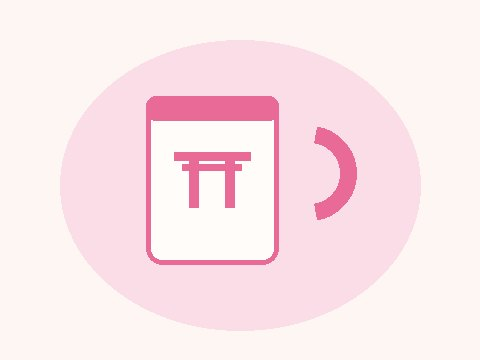
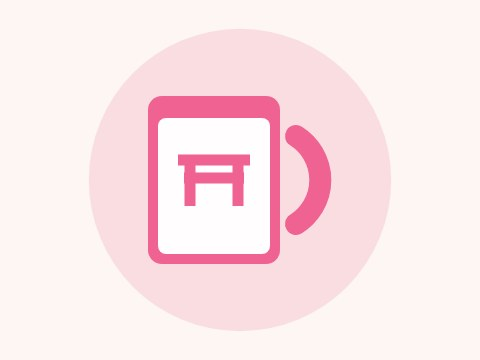
Give the tab strip a floor, and redraw the shop art with a round backdrop
**The cart's pictures.** The squash is painted into the files: the pale
backdrop behind each product is an ellipse, not a circle. A circle sized
as a fraction of a 4:3 canvas in both axes comes out flattened, and once
it is baked into a JPEG no amount of layout can undo it — the cart was
showing it faithfully. Both boxes that display these are already 4:3 and
so is the artwork, so nothing was being cropped or stretched on the way
in.

They are now drawn by scripts/generate-shop-art.mjs rather than by hand,
which is what makes the fix a fix: the backdrop is a circle because its
radius is one number, and all six can be redrawn at once. The hood on the
hoodie now sits on the shoulders instead of hovering above them, and the
figurine reads as a figurine rather than a plinth with a head on it.

The cart's thumbnail states its 4:3 as a ratio instead of a height, so it
cannot drift out of step with the artwork and start cropping. A test
holds every picture to 4:3 — the README invites real photographs to be
dropped in under the same names, and a 16:9 photograph would quietly lose
its top and bottom in the cart with nobody told.

**The tab strip, again.** The fix from before is in the file and I believe
it holds; what it cannot do is reach a build that has not been made yet,
and the earlier screenshot that looked right was the short-content tab,
which would have looked right either way. So rather than argue about it,
[…]

diff --git a/src/shop/__tests__/shopImages.test.ts b/src/shop/__tests__/shopImages.test.ts
@@ -1,0 +1,64 @@
+import { readFileSync, readdirSync } from 'fs';
+import { join } from 'path';
+import { SHOP_ITEMS, needsDelivery } from '../catalogue';
+
+/**
+ * Every product picture has to be 4:3, because every box that shows one is
+ * 4:3 and they are drawn with `cover` — which crops, silently, whatever
+ * does not match. A photograph dropped in at 16:9 would lose its top and
+ * bottom in the cart and nobody would be told.
+ *
+ * The README invites exactly that: "when real photographs exist, just put
+ * them here under the same name". This is the check that makes doing so
+ * safe.
+ */
+const SHOP_DIR = join(__dirname, '../../../assets/shop');
+
+/** Width and height out of a JPEG's frame header. */
+function jpegSize(bytes: Buffer): { width: number; height: number } | null {
+  let i = 2;
+  const FRAME = new Set([0xc0, 0xc1, 0xc2, 0xc3, 0xc5, 0xc6, 0xc7, 0xc9, 0xca, 0xcb, 0xcd, 0xce, 0xcf]);
+  while (i < bytes.length - 9) {
+    if (bytes[i] !== 0xff) {
+      i += 1;
+      continue;
+    }
+    const marker = bytes[i + 1];
+    if (FRAME.has(marker)) {
+      return { height: bytes.readUInt16BE(i + 5), width: bytes.readUInt16BE(i + 7) };
+    }
+    if (marker === 0xd8 || marker === 0xd9 || (marker >= 0xd0 && marker <= 0xd7)) {
+      i += 2;
+      continue;
+    }
+    i += 2 + bytes.readUInt16BE(i + 2);
+  }
+  return null;
+}
+
+describe('shop artwork', () => {
+  const files = readdirSync(SHOP_DIR).filter((name) => name.startsWith('merch-') && name.endsWith('.jpg'));
+
+  it('has a picture for every physical item', () => {
+    const wanted = SHOP_ITEMS.filter(needsDelivery).map((item) => `${item.id}.jpg`);
+    expect(wanted.length).toBeGreaterThan(0);
+    for (const name of wanted) expect(files).toContain(name);
+  });
+
+  it.each(['merch-tee', 'merch-hoodie', 'merch-mug', 'merch-poster', 'merch-stickers', 'merch-figure'])(
+    '%s is 4:3, so nothing is cropped off it',
+    (id) => {
+      const size = jpegSize(readFileSync(join(SHOP_DIR, `${id}.jpg`)));
+      expect(size).not.toBeNull();
+      // A couple of pixels of slack for a photograph that was cropped by
+      // hand; anything further off will visibly lose its edges.
+      expect(size!.width / size!.height).toBeCloseTo(4 / 3, 2);
+    }
+  );
+
+  it('keeps the files small enough to ship', () => {
+    for (const name of files) {
+      expect(readFileSync(join(SHOP_DIR, name)).length).toBeLessThan(400 * 1024);
+    }
+  });
+});

diff --git a/src/screens/TournamentScreen.tsx b/src/screens/TournamentScreen.tsx
@@ -1,5 +1,5 @@
 import { useEffect, useMemo, useRef, useState } from 'react';
-import { ActivityIndicator, Animated, Easing, ScrollView, StyleSheet, Text, View } from 'react-native';
+import { ActivityIndicator, Animated, Easing, PixelRatio, ScrollView, StyleSheet, Text, View } from 'react-native';
 import { SafeAreaView } from 'react-native-safe-area-context';
 import SoundTouchable from '../sound/SoundTouchable';
 import { Theme } from '../theme/palette';
@@ -1191,9 +1191,23 @@ function makeStyles(theme: Theme) {
     backText: { color: theme.text, fontSize: 15, fontFamily: fontFamily('700') },
     headerTitle: { fontSize: 24, fontFamily: fontFamily('800'), color: theme.text, marginTop: 4 },
     headerSubtitle: { fontSize: 12, fontFamily: fontFamily('600'), color: theme.textMuted, marginTop: 2 },
-    // flexShrink keeps the strip off the squeeze list when the screen runs
-    // short; without it the row is the thing that gives way.
-    tabsRow: { flexGrow: 0, flexShrink: 0 },
+    /*
+     * Three separate guards, because this row has collapsed twice now and
+     * each guard covers a different way of getting there.
+     *
+     * flexShrink keeps it off the squeeze list when the column runs short.
+     * minHeight means that even if something does squeeze it, there is a
+     * floor it cannot go below — and the floor is computed, not typed in:
+     * the pill is two borders, two paddings and a line of text, and the
+     * text grows with the reader's font setting, so the floor has to grow
+     * with it too. A hard 49 would crop the labels of anyone running large
+     * text, which is the same bug wearing a different hat.
+     */
+    tabsRow: {
+      flexGrow: 0,
+      flexShrink: 0,
+      minHeight: 4 + 10 + 2 * 1.5 + 2 * 8 + 16 * PixelRatio.getFontScale(),
+    },
     // `alignItems: 'center'` is load-bearing, not decoration. A row's
     // children stretch by default, so each pill was being given the row's
     // height instead of asking for its own — and a pill shorter than its

diff --git a/src/screens/CartScreen.tsx b/src/screens/CartScreen.tsx
@@ -233,7 +233,10 @@ function makeStyles(theme: Theme) {
     },
     row: { flexDirection: 'row', alignItems: 'center', gap: 12, paddingVertical: 14 },
     rowDivided: { borderTopWidth: 1, borderTopColor: theme.border },
-    thumb: { width: 56, height: 42, borderRadius: radius.md },
+    // Stated as a ratio, not a height: the artwork is 4:3 and `cover`
+    // crops whatever does not match, so a box that drifts out of step
+    // silently slices the top and bottom off every product.
+    thumb: { width: 56, aspectRatio: 4 / 3, borderRadius: radius.md },
     rowTitle: { fontSize: 13, lineHeight: 17, fontFamily: fontFamily('700'), color: theme.text },
     rowMeta: { fontSize: 11, fontFamily: fontFamily('600'), color: theme.textMuted, marginTop: 2 },
     rowPrice: { fontSize: 12, fontFamily: fontFamily('800'), color: theme.textMuted, marginTop: 2 },

diff --git a/assets/shop/README.md b/assets/shop/README.md
@@ -12,6 +12,12 @@
 палитру приложения. Когда появятся настоящие фотографии, просто положите
 их под тем же именем.
 
+Заглушки рисует `scripts/generate-shop-art.mjs` (`node
+scripts/generate-shop-art.mjs`), а не рука — поэтому их можно
+перерисовать и починить все разом. Первая версия была нарисована руками,
+и подложка у всех шести оказалась эллипсом: круг, заданный долями от
+холста 4:3 по обеим осям, выходит сплющенным. В корзине это и было видно.
+
 ## Правила
 
 - **Имя файла менять нельзя** — по нему всё и связывается. Файл должен
